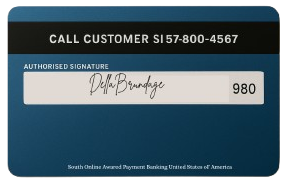
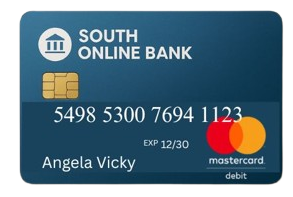
"Update Login Pin, Dashboard Transaction History."

diff --git a/bank/dashboard.html b/bank/dashboard.html
@@ -129,20 +129,29 @@
 
 <main>
   <section class="profile-header" role="region" aria-label="Profile">
-    <img src="auth/profile.jpg" alt="Profile avatar">
+    <img src="auth/profile.jpeg" alt="Profile avatar">
     <div class="details">
-      <h3>Della Brundage</h3>
-      <p>📍3604 Lakeside Dr, Columbus Georgia 31903.
+      <h3>Angela Vicky</h3>
+      <p>📍.
 </p>
     </div>
-  </section>
+
+     </section>
+
+  <div class="accounts" role="region" aria-label="Accounts">
+    <section class="balance-card" aria-labelledby="ira-title">
+      <div class="balance-info">
+        <p id="ira-title">Total Balance</p>
+        <h1>$650,500,500.90</h1>
+       
+      
 
   <div class="accounts" role="region" aria-label="Accounts">
     <section class="balance-card" aria-labelledby="ira-title">
       <div class="balance-info">
         <p id="ira-title">Checking Account Balance</p>
-        <h1>$1,000,000.00</h1>
-        <p>Account Name<br><strong>Della Frances Brundage</strong></p>
+        <h1>$150,100,200.90</h1>
+        <p>Account Name<br><strong>Angela Vicky</strong></p>
       </div>
       <div class="account-number">
         <p>Account Number</p><strong>6034 4476 9012</strong>
@@ -157,8 +166,8 @@
     <section class="balance-card" aria-labelledby="sav-title">
       <div class="balance-info">
         <p id="sav-title">Savings Account Balance</p>
-        <h1>$1,000,000.00</h1>
-        <p>Account Name<br><strong>Della Frances Brundage</strong></p>
+        <h1>$500,400,300.00</h1>
+        <p>Account Name<br><strong>Sunday Prince Augustine</strong></p>
       </div>
       <div class="account-number">
         <p>Account Number</p><strong>9567 1111 3351</strong>
@@ -183,8 +192,8 @@
     <div class="view-card-box" id="viewCardBox" role="button" tabindex="0" aria-pressed="false">View Bank Card</div>
 
     <div class="card-container" id="cardContainer" aria-hidden="true" title="Click to flip card">
-      <img src="auth/front.png" alt="ATM Card Front" class="atm-card" id="cardFront">
-      <img src="auth/back.png" alt="ATM Card Back" class="atm-card hidden" id="cardBack">
+      <img src="auth/back.png" alt="ATM Card Front" class="atm-card" id="cardFront">
+      <img src="auth/front.png" alt="ATM Card Back" class="atm-card hidden" id="cardBack">
     </div>
 
     <a href="ship.html" class="apply-btn" role="link">Apply For MasterCard</a>
@@ -198,14 +207,70 @@
     <div class="transactions-content" id="historyBox" aria-hidden="true">
       <table>
         <thead>
-          <tr><th>#</th><th>Date</th><th>Description</th><th>Amount</th><th>Type</th></tr>
-        </thead>
+<tr><td>1</td><td>2024-05-12</td><td>Chase Bank</td><td>Emily Carter</td><td>$10,500</td><td>Deposit</td></tr>
+      <tr><td>2</td><td>2024-06-03</td><td>Wells Fargo</td><td>John Smith</td><td>$12,800</td><td>ACH</td></tr>
+      <tr><td>3</td><td>2024-06-24</td><td>Bank of America</td><td>Lisa Johnson</td><td>$15,000</td><td>Transfer</td></tr>
+      <tr><td>4</td><td>2024-07-02</td><td>Capital One</td><td>David Lee</td><td>$25,500</td><td>Wire Transfer</td></tr>
+      <tr><td>5</td><td>2024-07-20</td><td>Citi Bank</td><td>Jennifer Adams</td><td>$11,400</td><td>Deposit</td></tr>
+      <tr><td>6</td><td>2024-08-08</td><td>HSBC USA</td><td>Michael Rodriguez</td><td>$20,000</td><td>ACH</td></tr>
+      <tr><td>7</td><td>2024-08-26</td><td>PNC Bank</td><td>Susan Martinez</td><td>$30,300</td><td>Wire Transfer</td></tr>
+      <tr><td>8</td><td>2024-09-15</td><td>TD Bank</td><td>Robert Taylor</td><td>$18,750</td><td>Transfer</td></tr>
+      <tr><td>9</td><td>2024-09-29</td><td>US Bank</td><td>Mary Walker</td><td>$14,200</td><td>Withdraw</td></tr>
+      <tr><td>10</td><td>2024-10-11</td><td>Regions Bank</td><td>Daniel Harris</td><td>$16,800</td><td>Deposit</td></tr>
+      <tr><td>11</td><td>2024-10-27</td><td>SunTrust Bank</td><td>Patricia Allen</td><td>$22,500</td><td>ACH</td></tr>
+      <tr><td>12</td><td>2024-11-12</td><td>BB&T Bank</td><td>Steven Clark</td><td>$28,000</td><td>Wire Transfer</td></tr>
+      <tr><td>13</td><td>2024-12-01</td><td>Fifth Third Bank</td><td>Donna Lewis</td><td>$35,000</td><td>Transfer</td></tr>
+      <tr><td>14</td><td>2024-12-19</td><td>Ally Bank</td><td>Thomas Young</td><td>$19,900</td><td>Receive</td></tr>
+      <tr><td>15</td><td>2025-01-04</td><td>KeyBank</td><td>Elizabeth King</td><td>$16,450</td><td>Deposit</td></tr>
+      <tr><td>16</td><td>2025-01-19</td><td>Discover Bank</td><td>Mark Wright</td><td>$23,100</td><td>Withdraw</td></tr>
+      <tr><td>17</td><td>2025-02-05</td><td>First Republic Bank</td><td>Carol Hill</td><td>$27,800</td><td>ACH</td></tr>
+      <tr><td>18</td><td>2025-02-22</td><td>Charles Schwab Bank</td><td>Matthew Scott</td><td>$33,200</td><td>Wire Transfer</td></tr>
+      <tr><td>19</td><td>2025-03-10</td><td>SoFi Bank</td><td>Amy Green</td><td>$45,600</td><td>Transfer</td></tr>
+      <tr><td>20</td><td>2025-03-25</td><td>Robinhood Bank</td><td>Larry Baker</td><td>$26,350</td><td>Deposit</td></tr>
+      <tr><td>21</td><td>2025-04-02</td><td>American Express Bank</td><td>Samantha Nelson</td><td>$38,000</td><td>ACH</td></tr>
+      <tr><td>22</td><td>2025-04-10</td><td>Comerica Bank</td><td>Joshua Hall</td><td>$40,100</td><td>Wire Transfer</td></tr>
+      <tr><td>23</td><td>2025-04-17</td><td>Citizens Bank</td><td>Rebecca Allen</td><td>$13,600</td><td>Transfer</td></tr>
+      <tr><td>24</td><td>2025-04-25</td><td>First Horizon Bank</td><td>Anthony Phillips</td><td>$29,900</td><td>Deposit</td></tr>
+      <tr><td>25</td><td>2025-05-01</td><td>Huntington Bank</td><td>Karen Campbell</td><td>$17,750</td><td>Withdraw</td></tr>
+      <tr><td>26</td><td>2025-05-04</td><td>Old National Bank</td><td>Jason Stewart</td><td>$21,200</td><td>ACH</td></tr>
+      <tr><td>27</td><td>2025-05-10</td><td>Santander Bank</td><td>Rachel Turner</td><td>$44,500</td><td>Receive</td></tr>
+      <tr><td>28</td><td>2025-05-14</td><td>Flagstar Bank</td><td>Jeffrey Ramirez</td><td>$31,700</td><td>Wire Transfer</td></tr>
+      <tr><td>29</td><td>2025-05-20</td><td>BMO Harris Bank</td><td>Angela Cox</td><td>$36,900</td><td>Transfer</td></tr>
+      <tr><td>30</td><td>2025-05-27</td><td>Truist Bank</td><td>Eric Edwards</td><td>$42,300</td><td>Deposit</td></tr>        </thead>
+ <tr><td>31</td><td>2025-06-01</td><td>Chase Bank</td><td>Emily Carter</td><td>$10,500</td><td>Deposit</td></tr>
+<tr><td>32</td><td>2025-06-07</td><td>Wells Fargo</td><td>John Smith</td><td>$12,800</td><td>ACH</td></tr>
+<tr><td>33</td><td>2025-06-13</td><td>Bank of America</td><td>Lisa Johnson</td><td>$15,000</td><td>Transfer</td></tr>
+<tr><td>34</td><td>2025-06-19</td><td>Capital One</td><td>David Lee</td><td>$25,500</td><td>Wire Transfer</td></tr>
+<tr><td>35</td><td>2025-06-25</td><td>Citi Bank</td><td>Jennifer Adams</td><td>$11,400</td><td>Deposit</td></tr>
+<tr><td>36</td><td>2025-07-01</td><td>HSBC USA</td><td>Michael Rodriguez</td><td>$20,000</td><td>ACH</td></tr>
+<tr><td>37</td><td>2025-07-07</td><td>PNC Bank</td><td>Susan Martinez</td><td>$30,300</td><td>Wire Transfer</td></tr>
+<tr><td>38</td><td>2025-07-13</td><td>TD Bank</td><td>Robert Taylor</td><td>$18,750</td><td>Transfer</td></tr>
+<tr><td>39</td><td>2025-07-19</td><td>US Bank</td><td>Mary Walker</td><td>$14,200</td><td>Withdraw</td></tr>
+<tr><td>40</td><td>2025-07-25</td><td>Regions Bank</td><td>Daniel Harris</td><td>$16,800</td><td>Deposit</td></tr>
+<tr><td>41</td><td>2025-07-31</td><td>SunTrust Bank</td><td>Patricia Allen</td><td>$22,500</td><td>ACH</td></tr>
+<tr><td>42</td><td>2025-08-06</td><td>BB&T Bank</td><td>Steven Clark</td><td>$28,000</td><td>Wire Transfer</td></tr>
+<tr><td>43</td><td>2025-08-12</td><td>Fifth Third Bank</td><td>Donna Lewis</td><td>$35,000</td><td>Transfer</td></tr>
+<tr><td>44</td><td>2025-08-18</td><td>Ally Bank</td><td>Thomas Young</td><td>$19,900</td><td>Receive</td></tr>
+<tr><td>45</td><td>2025-08-24</td><td>KeyBank</td><td>Elizabeth King</td><td>$16,450</td><td>Deposit</td></tr>
+<tr><td>46</td><td>2025-08-30</td><td>Discover Bank</td><td>Mark Wright</td><td>$23,100</td><td>Withdraw</td></tr>
+<tr><td>47</td><td>2025-09-05</td><td>First Republic Bank</td><td>Carol Hill</td><td>$27,800</td><td>ACH</td></tr>
+<tr><td>48</td><td>2025-09-11</td><td>Charles Schwab Bank</td><td>Matthew Scott</td><td>$33,200</td><td>Wire Transfer</td></tr>
+<tr><td>49</td><td>2025-09-17</td><td>SoFi Bank</td><td>Amy Green</td><td>$45,600</td><td>Transfer</td></tr>
+<tr><td>50</td><td>2025-09-23</td><td>Robinhood Bank</td><td>Larry Baker</td><td>$26,350</td><td>Deposit</td></tr>
+<tr><td>51</td><td>2025-09-29</td><td>American Express Bank</td><td>Samantha Nelson</td><td>$38,000</td><td>ACH</td></tr>
+<tr><td>52</td><td>2025-10-05</td><td>Comerica Bank</td><td>Joshua Hall</td><td>$40,100</td><td>Wire Transfer</td></tr>
+<tr><td>53</td><td>2025-10-11</td><td>Citizens Bank</td><td>Rebecca Allen</td><td>$13,600</td><td>Transfer</td></tr>
+<tr><td>54</td><td>2025-10-17</td><td>First Horizon Bank</td><td>Anthony Phillips</td><td>$29,900</td><td>Deposit</td></tr>
+<tr><td>55</td><td>2025-10-23</td><td>Huntington Bank</td><td>Karen Campbell</td><td>$17,750</td><td>Withdraw</td></tr>
+<tr><td>56</td><td>2025-10-29</td><td>Old National Bank</td><td>Jason Stewart</td><td>$21,200</td><td>ACH</td></tr>
+<tr><td>57</td><td>2025-11-04</td><td>Santander Bank</td><td>Rachel Turner</td><td>$44,500</td><td>Receive</td></tr>
+<tr><td>58</td><td>2025-11-10</td><td>Flagstar Bank</td><td>Jeffrey Ramirez</td><td>$31,700</td><td>Wire Transfer</td></tr>
+<tr><td>59</td><td>2025-11-16</td><td>BMO Harris Bank</td><td>Angela Cox</td><td>$36,900</td><td>Transfer</td></tr>
+<tr><td>60</td><td>2025-12-01</td><td>Truist Bank</td><td>Eric Edwards</td><td>$42,300</td><td>Deposit</td></tr>
              <tbody>
 
   <!-- October 2025 -->
-  <tr><td>1</td><td>2025-11-12</td><td>Mark Zuckerberg Service Payment</td><td>$1,000,000.00</td><td>Deposit</td></tr>
-  <tr><td>2</td><td>2025-11-12</td><td>Mark Zuckerberg Special Allowance</td><td>$1,000,000.00</td><td>Deposit</td></tr>
-</tbody>
+  
       </table>
     </div>
   </section>

diff --git a/bank/auth/login.html b/bank/auth/login.html
@@ -108,7 +108,7 @@
       const password = document.getElementById("password").value;
 
       // Updated login check
-      if (username === "Sundayprince" && password === "Augustine77") {
+      if (username === "Angela" && password === "Angela2025") {
         // Save login state
         sessionStorage.setItem("loggedIn", true);
 
